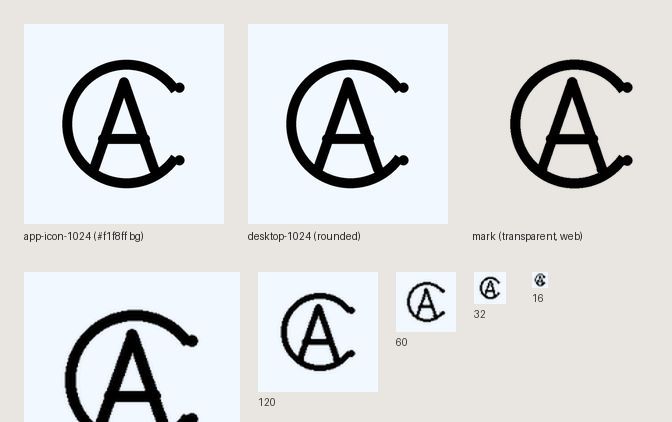
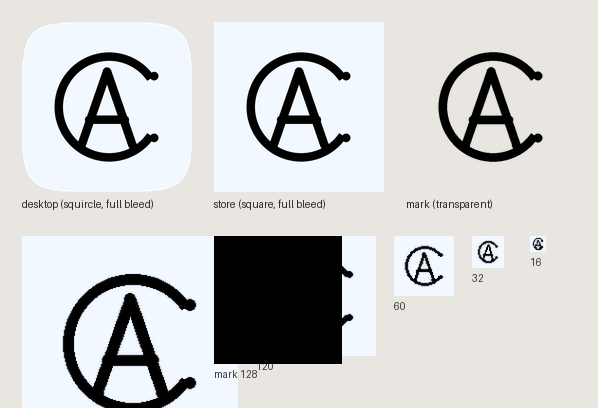
feat(desktop): 图标改为满幅 squircle（与 macOS Dock 尺寸/圆角一致）+ 图标包同步更新

diff --git a/mobile/brand/render_ivec_mono.py b/mobile/brand/render_ivec_mono.py
@@ -1,16 +1,13 @@
 #!/usr/bin/env python3
-"""ivec 品牌图标渲染器（单色系：黑描边 + #f1f8ff 底）。
+"""ivec 品牌图标渲染器（统一风格，2026-11-05 定稿）。
 
-几何 = aic/ui/assets/logo.svg（开口圆环 + A 字，stroke-width 12，viewBox 240）。
-logo.svg 本体是**黑色描边 + 透明底**：网页暗色主题靠 CSS `filter: invert(1)` 反色；
-应用图标这类无法用 CSS 的场景，用 #f1f8ff 作底色 + 黑色标记。
+统一规范（网页 / 桌面 / 商店 / 托盘 同一套）：
+  - 形状：**满幅出血的 squircle**（超椭圆 n=5，macOS 图标惯例；macOS 不会自动给第三方图标加圆角）
+  - 底色：**#f1f8ff**（浅底，不透明）
+  - 标记：**纯黑 #000000** 描边（开口圆环 + A 字），占画布约 59~62%
+  - 托盘：唯一保留透明底的场景（要叠在系统托盘上，macOS 走 trayTemplate 模板图自动反色）
 
-输出：
-  ivec-mark-*.png            透明底 + 黑标记（网页/托盘/反色底图）
-  ivec-app-icon-*.png        满幅 #f1f8ff 底 + 黑标记（商店，不自带圆角）
-  ivec-desktop-icon-*.png    透明底 + 圆角 #f1f8ff 方块 + 黑标记（桌面端应用图标）
-  ivec-adaptive-fg-*.png     透明底 + 黑标记（Android 自适应前景层，图形收 66% 安全区）
-  ivec-tray-128.png          透明底 + 黑标记（托盘）
+几何与 aic/ui/assets/logo.svg 一致（环 R=77、stroke=12、A 的三段）。
 用法: python3 render_ivec_mono.py [输出目录]
 """
 import math
@@ -30,12 +27,36 @@ FIELD = (0xF1, 0xF8, 0xFF, 255)     # 品牌底色 #f1f8ff
 BLACK = (0, 0, 0, 255)              # 标记颜色
 CLEAR = (0, 0, 0, 0)
 
+MARK_SPAN = 0.5875                  # 原生几何的标记宽度占画布比例（46..187 / 240）
+MARK_RATIO = 0.62                   # 目标：标记占画布比例
 
-def stroke_mask(size, color=255):
+
+def squircle_points(size, n=5.0, steps=192):
+    """超椭圆（squircle）轮廓点，铺满画布。"""
+    c = size / 2.0
+    a = c
+    pts = []
+    for i in range(steps):
+        t = 2 * math.pi * i / steps
+        ct, st = math.cos(t), math.sin(t)
+        x = a * math.copysign(abs(ct) ** (2.0 / n), ct)
+        y = a * math.copysign(abs(st) ** (2.0 / n), st)
+        pts.append((c + x, c + y))
+    return pts
+
+
+def squircle_svg_path(size=240, n=5.0, steps=96):
+    """SVG path（满幅 squircle）。"""
+    pts = squircle_points(size, n=n, steps=steps)
+    d = "M" + " L".join(f"{x:.2f} {y:.2f}" for x, y in pts) + " Z"
+    return d
+
+
+def stroke_mask(size, color=255, stroke=STROKE):
     k = size / U
     m = Image.new("L", (size, size), 0)
     d = ImageDraw.Draw(m)
-    w = max(1, int(round(STROKE * k)))
+    w = max(1, int(round(stroke * k)))
     r = w / 2.0
     cx, cy = RING_C[0] * k, RING_C[1] * k
     rad = RING_R * k
@@ -53,60 +74,87 @@ def stroke_mask(size, color=255):
     return m
 
 
-def render(size, bg, mark_scale=1.0, rounded=False, inset=0.0, radius_ratio=0.22):
-    """bg=CLEAR 且 rounded=True 时画圆角底色方块。"""
-    base = Image.new("RGBA", (size, size), bg)
-    if rounded and bg[3] > 0:
-        pad = int(round(size * inset))
-        side = size - 2 * pad
-        r = int(round(side * radius_ratio))
-        ImageDraw.Draw(base).rounded_rectangle([pad, pad, size - pad, size - pad], radius=r, fill=bg)
-    mask = stroke_mask(size)
-    if mark_scale != 1.0:
-        ns = int(round(size * mark_scale))
+def render(size, bg, mark_color=BLACK, mark_ratio=MARK_RATIO, shape="square",
+           stroke=STROKE, n=5.0):
+    """shape: square（商店，满幅方块） / squircle（桌面，满幅超椭圆） / none（透明底）。"""
+    base = Image.new("RGBA", (size, size), (0, 0, 0, 0))
+    if shape == "squircle":
+        ImageDraw.Draw(base).polygon(squircle_points(size, n=n), fill=bg)
+    elif shape == "square":
+        ImageDraw.Draw(base).rectangle([0, 0, size - 1, size - 1], fill=bg)
+    mask = stroke_mask(size, stroke=stroke)
+    scale = (mark_ratio / MARK_SPAN) if mark_ratio else 1.0
+    if scale != 1.0:
+        ns = max(1, int(round(size * scale)))
         mask = mask.resize((ns, ns), Image.LANCZOS).resize((size, size), Image.LANCZOS)
-    layer = Image.new("RGBA", (size, size), BLACK)
+    layer = Image.new("RGBA", (size, size), mark_color)
     layer.putalpha(mask)
     base.alpha_composite(layer)
     return base
+
+
+LOGO_SVG = '''<svg width="240" height="240" viewBox="0 0 240 240" fill="none" xmlns="http://www.w3.org/2000/svg">
+  <!-- 平台 logo 唯一真源：满幅 squircle 底 #f1f8ff + 黑色标记，不透明。
+       favicon / og:image / 分享卡 / 网页 header / dock / 桌面应用图标 / 商店图标 全部同一套风格。
+       暗色主题：页面 CSS filter: invert(1) 整体反色 → 深底白标。 -->
+  <path d="{SQUIRCLE}" fill="#F1F8FF"/>
+  <path
+    d="M187 76C173.5 57.3333 150 46 123 46C79.3695 46 46 79.5786 46 120C46 160.421 79.3695 194 123 194C150 194 173.5 182.667 187 164"
+    stroke="#000000" stroke-width="12" stroke-linecap="round" stroke-linejoin="round"/>
+  <path d="M84 174L120 70L156 174" stroke="#000000" stroke-width="12" stroke-linecap="round"
+    stroke-linejoin="round"/>
+  <path d="M95 138H145" stroke="#000000" stroke-width="12" stroke-linecap="round"
+    stroke-linejoin="round"/>
+</svg>
+'''
 
 
 def main():
     out = sys.argv[1] if len(sys.argv) > 1 else os.path.dirname(os.path.abspath(__file__))
     os.makedirs(out, exist_ok=True)
 
-    # 透明底标记
-    for s in (1024, 512, 256, 128):
-        render(s, CLEAR, mark_scale=0.92).save(os.path.join(out, f"ivec-mark-{s}.png"))
-    # 商店图标：满幅 #f1f8ff
-    for s in (1024, 512, 256, 216, 180, 152, 120, 76, 60, 48, 32, 16):
-        render(s, FIELD, mark_scale=0.72).convert("RGB").save(
-            os.path.join(out, f"ivec-app-icon-{s}.png"))
-    # 桌面端应用图标：透明底 + 圆角 #f1f8ff 方块
+    # 桌面端：满幅 squircle + 黑标（与网页 logo.svg 同一风格）
     for s in (1024, 512, 256):
-        render(s, FIELD, mark_scale=0.56, rounded=True, inset=0.055).save(
-            os.path.join(out, f"ivec-desktop-icon-{s}.png"))
-    # Android 自适应前景层
+        render(s, FIELD, shape="squircle").save(os.path.join(out, f"ivec-desktop-icon-{s}.png"))
+    # 商店图标：满幅方块（商店自己加圆角）
+    for s in (1024, 512, 256, 216, 180, 152, 120, 76, 60, 48, 32, 16):
+        render(s, FIELD, shape="square").convert("RGB").save(
+            os.path.join(out, f"ivec-app-icon-{s}.png"))
+    # Android 自适应前景层（透明底 + 黑标，图形收 66% 安全区）
     for s in (432, 1024):
-        render(s, CLEAR, mark_scale=0.66).save(os.path.join(out, f"ivec-adaptive-fg-{s}.png"))
-    # 托盘
-    render(128, CLEAR, mark_scale=0.92).save(os.path.join(out, "ivec-tray-128.png"))
+        render(s, CLEAR, mark_ratio=0.42, shape="none").save(
+            os.path.join(out, f"ivec-adaptive-fg-{s}.png"))
+    # 透明底标记 + 托盘
+    for s in (1024, 512, 256, 128):
+        render(s, CLEAR, shape="none").save(os.path.join(out, f"ivec-mark-{s}.png"))
+    render(128, CLEAR, shape="none").save(os.path.join(out, "ivec-tray-128.png"))
+    # 网页 logo.svg（squircle 底 + 原生几何标记）
+    with open(os.path.join(out, "logo.svg"), "w") as f:
+        f.write(LOGO_SVG.replace("{SQUIRCLE}", squircle_svg_path(240, n=5.0, steps=96)))
 
     # 联络表
-    pad, cell = 24, 200
-    sheet = Image.new("RGB", (pad * 3 + cell * 3, pad * 3 + cell + 150), (233, 230, 225))
+    pad, cell = 22, 170
+    sheet = Image.new("RGB", (pad * 4 + cell * 3, pad * 4 + cell + 150), (233, 230, 225))
     sd = ImageDraw.Draw(sheet)
-    im = Image.open(os.path.join(out, "ivec-app-icon-1024.png")).resize((cell, cell), Image.LANCZOS)
-    sheet.paste(im, (pad, pad)); sd.text((pad, pad + cell + 6), "app-icon-1024 (#f1f8ff bg)", fill=(40, 40, 40))
     im = Image.open(os.path.join(out, "ivec-desktop-icon-1024.png")).resize((cell, cell), Image.LANCZOS)
-    sheet.paste(im, (pad * 2 + cell, pad), im); sd.text((pad * 2 + cell, pad + cell + 6), "desktop-1024 (rounded)", fill=(40, 40, 40))
+    sheet.paste(im, (pad, pad), im)
+    sd.text((pad, pad + cell + 6), "desktop (squircle, full bleed)", fill=(40, 40, 40))
+    im = Image.open(os.path.join(out, "ivec-app-icon-1024.png")).resize((cell, cell), Image.LANCZOS)
+    sheet.paste(im, (pad * 2 + cell, pad))
+    sd.text((pad * 2 + cell, pad + cell + 6), "store (square, full bleed)", fill=(40, 40, 40))
     im = Image.open(os.path.join(out, "ivec-mark-512.png")).resize((cell, cell), Image.LANCZOS)
-    sheet.paste(im, (pad * 3 + cell * 2, pad), im); sd.text((pad * 3 + cell * 2, pad + cell + 6), "mark (transparent, web)", fill=(40, 40, 40))
-    y = pad * 3 + cell
+    sheet.paste(im, (pad * 3 + cell * 2, pad), im)
+    sd.text((pad * 3 + cell * 2, pad + cell + 6), "mark (transparent)", fill=(40, 40, 40))
     x = pad
+    y = pad * 3 + cell
     for s in (216, 120, 60, 32, 16):
         sheet.paste(Image.open(os.path.join(out, f"ivec-app-icon-{s}.png")), (x, y))
         sd.text((x, y + s + 4), str(s), fill=(60, 60, 60))
+        x += max(s, 40) + 18
+    x = pad * 2 + cell
+    for s in (128,):
+        sheet.paste(Image.open(os.path.join(out, "ivec-mark-128.png")), (x, y))
+        sd.text((x, y + s + 4), "mark 128", fill=(60, 60, 60))
         x += max(s, 40) + 18
     sheet.save(os.path.join(out, "ivec-app-icon-sheet.png"))
     print("OK ->", out)

diff --git a/docs/development/brand-assets.md b/docs/development/brand-assets.md
@@ -6,6 +6,7 @@
 
 | 角色 | 值 | 说明 |
 |---|---|---|
+| 形状 | **满幅出血的 squircle**（超椭圆 n=5） | macOS 图标惯例：**第三方图标不会自动加圆角**，圆角与边距必须自己烘进 PNG；留透明边距 → Dock 里明显显小 |
 | 标记（icon） | **纯黑 `#000000`** | 描边式 logo，**只有黑白风格，无彩色版** |
 | 底色（field） | **`#f1f8ff`** | **所有 logo / 图标都带这层底**，不透明（底色是底色，不算 logo 配色） |
 | 暗色模式 | **CSS `filter: invert(1)`** | 整体反色 → 深底白标，暗色底上可见 |
@@ -19,7 +20,7 @@ favicon / 分享卡 / 网页 logo / 应用图标**共用同一份带底色的 SV
 
 | 资产 | 路径 | 说明 |
 |---|---|---|
-| **平台 logo（矢量）** | `aic/ui/assets/logo.svg` | **唯一真源**：240×240，`rx=48` 圆角 `#f1f8ff` 底 + 黑色描边标记（开口圆环 + A 字，stroke-width 12） |
+| **平台 logo（矢量）** | `aic/ui/assets/logo.svg` | **唯一真源**：240×240，**满幅 squircle 底 `#f1f8ff`**（超椭圆 n=5，96 段 path）+ 黑色描边标记（开口圆环 + A 字，stroke-width 12） |
 | 暗色反色规则 | `aic/ui/assets/global.css` | `:root[theme="dark"]` 与 `body[theme="dark"]` 两套选择器都覆盖 `img.brand-mark` / `.brand-mark img`（主题属性有两个落点：`root.html` 写 documentElement，`layout/theme.html` 写 body） |
 | 网页引用 | favicon / og:image / twitter:image / JSON-LD logo / header / dock —— 全部指这一个 logo.svg | 只有一份，不分 favicon 版 |
 | 桌面端托盘 | `aic-pod/desktop/assets/trayTemplate.png` / `@2x.png`（macOS 模板单色，系统自动反色）、`tray.png`（Linux/Windows，黑标记透明底） | 托盘是唯一保留透明底的场景（要叠在系统托盘上） |
@@ -33,8 +34,8 @@ favicon / 分享卡 / 网页 logo / 应用图标**共用同一份带底色的 SV
 
 | 文件 | 用途 | 规格要点 |
 |---|---|---|
-| `ivec-app-icon-{1024,512,256,216,180,152,120,76,60,48,32,16}.png` | **商店主图标** | 满幅 `#f1f8ff` 底 + 黑标记；**不透明、无 alpha、无自带圆角**（商店自己加圆角） |
-| `ivec-desktop-icon-{1024,512,256}.png` | 桌面端应用图标 | 透明底 + 圆角 `#f1f8ff` 方块 + 黑标记 |
+| `ivec-app-icon-{1024,512,256,216,180,152,120,76,60,48,32,16}.png` | **商店主图标** | 满幅 `#f1f8ff` 方块 + 黑标记（标记占画布 62%）；**不透明、无 alpha、无自带圆角**（商店自己加圆角） |
+| `ivec-desktop-icon-{1024,512,256}.png` | 桌面端应用图标 | **满幅出血 squircle**（n=5）+ `#f1f8ff` 底 + 黑标记（62%）；透明画布只留 squircle 外的四角 |
 | `ivec-adaptive-fg-{432,1024}.png` | Android 自适应图标**前景层** | 透明底 + 黑标记，图形收在中心 66% 安全区（背景层用 `#f1f8ff`） |
 | `ivec-mark-{1024,512,256,128}.png` | 透明底标记 | 托盘 / 深色底反色等特殊场景 |
 | `ivec-tray-128.png` | 托盘图标 | 透明底 + 黑标记（已接入 `aic-pod/desktop/assets/tray.png`） |
